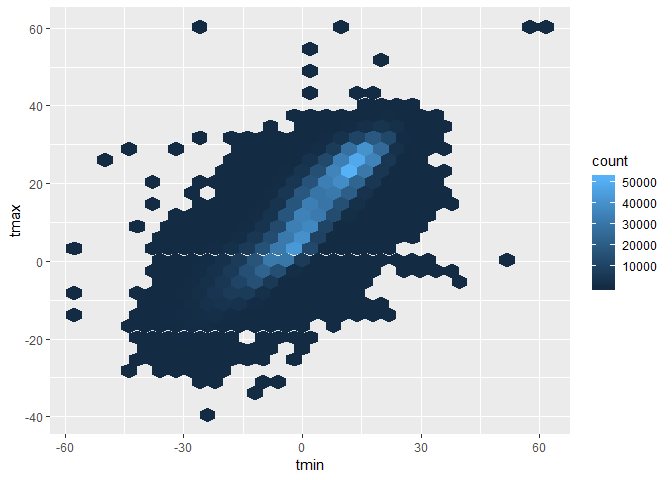
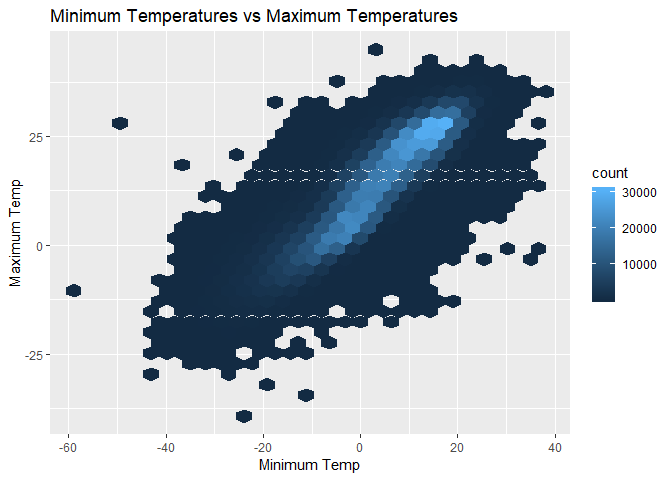
Plot 2 Snow

diff --git a/p8105_hw3.md b/p8105_hw3.md
@@ -237,10 +237,10 @@ nynoaa_snow
 ``` r
 maxtempJanJul_plot =
   nynoaa_cleaned %>%
+  na.omit() %>%
   select(year, month, id, tmin, tmax) %>%
   filter(month == "01" | month == "07") %>%
-  na.omit() %>%
-  group_by(year, month, id) %>%
+    group_by(year, month, id) %>%
   summarize(tmax_mean = mean(tmax)) %>%
   ggplot(aes(x = year, y = tmax_mean)) + geom_boxplot() + facet_grid(.~month) + theme(axis.text.x = element_text(size = 9, angle = 90)) + labs(title = "Comparison of Average Max Temps in Celcius between January and July from 1981 to 2010", x = "Years", y = "Temperature (Celcius)" )
 maxtempJanJul_plot
@@ -251,10 +251,17 @@ maxtempJanJul_plot
 ``` r
 plot1_minmax =
   nynoaa_cleaned %>%
-  select(tmin, tmax) %>%
   na.omit() %>%
-  ggplot(aes(x = tmin, y = tmax )) + geom_hex()
+  select(tmin, tmax) %>%
+  ggplot(aes(x = tmin, y = tmax )) + geom_hex() + labs(title = "Minimum Temperatures vs Maximum Temperatures", x = "Minimum Temp", y = "Maximum Temp")
 plot1_minmax
 ```
 
 ![](p8105_hw3_files/figure-markdown_github/unnamed-chunk-6-1.png)
+
+``` r
+plot2_snofall =
+  nynoaa_cleaned %>%
+  na.omit() %>%
+  filter(snow > 0 & snow < 100)
+```
